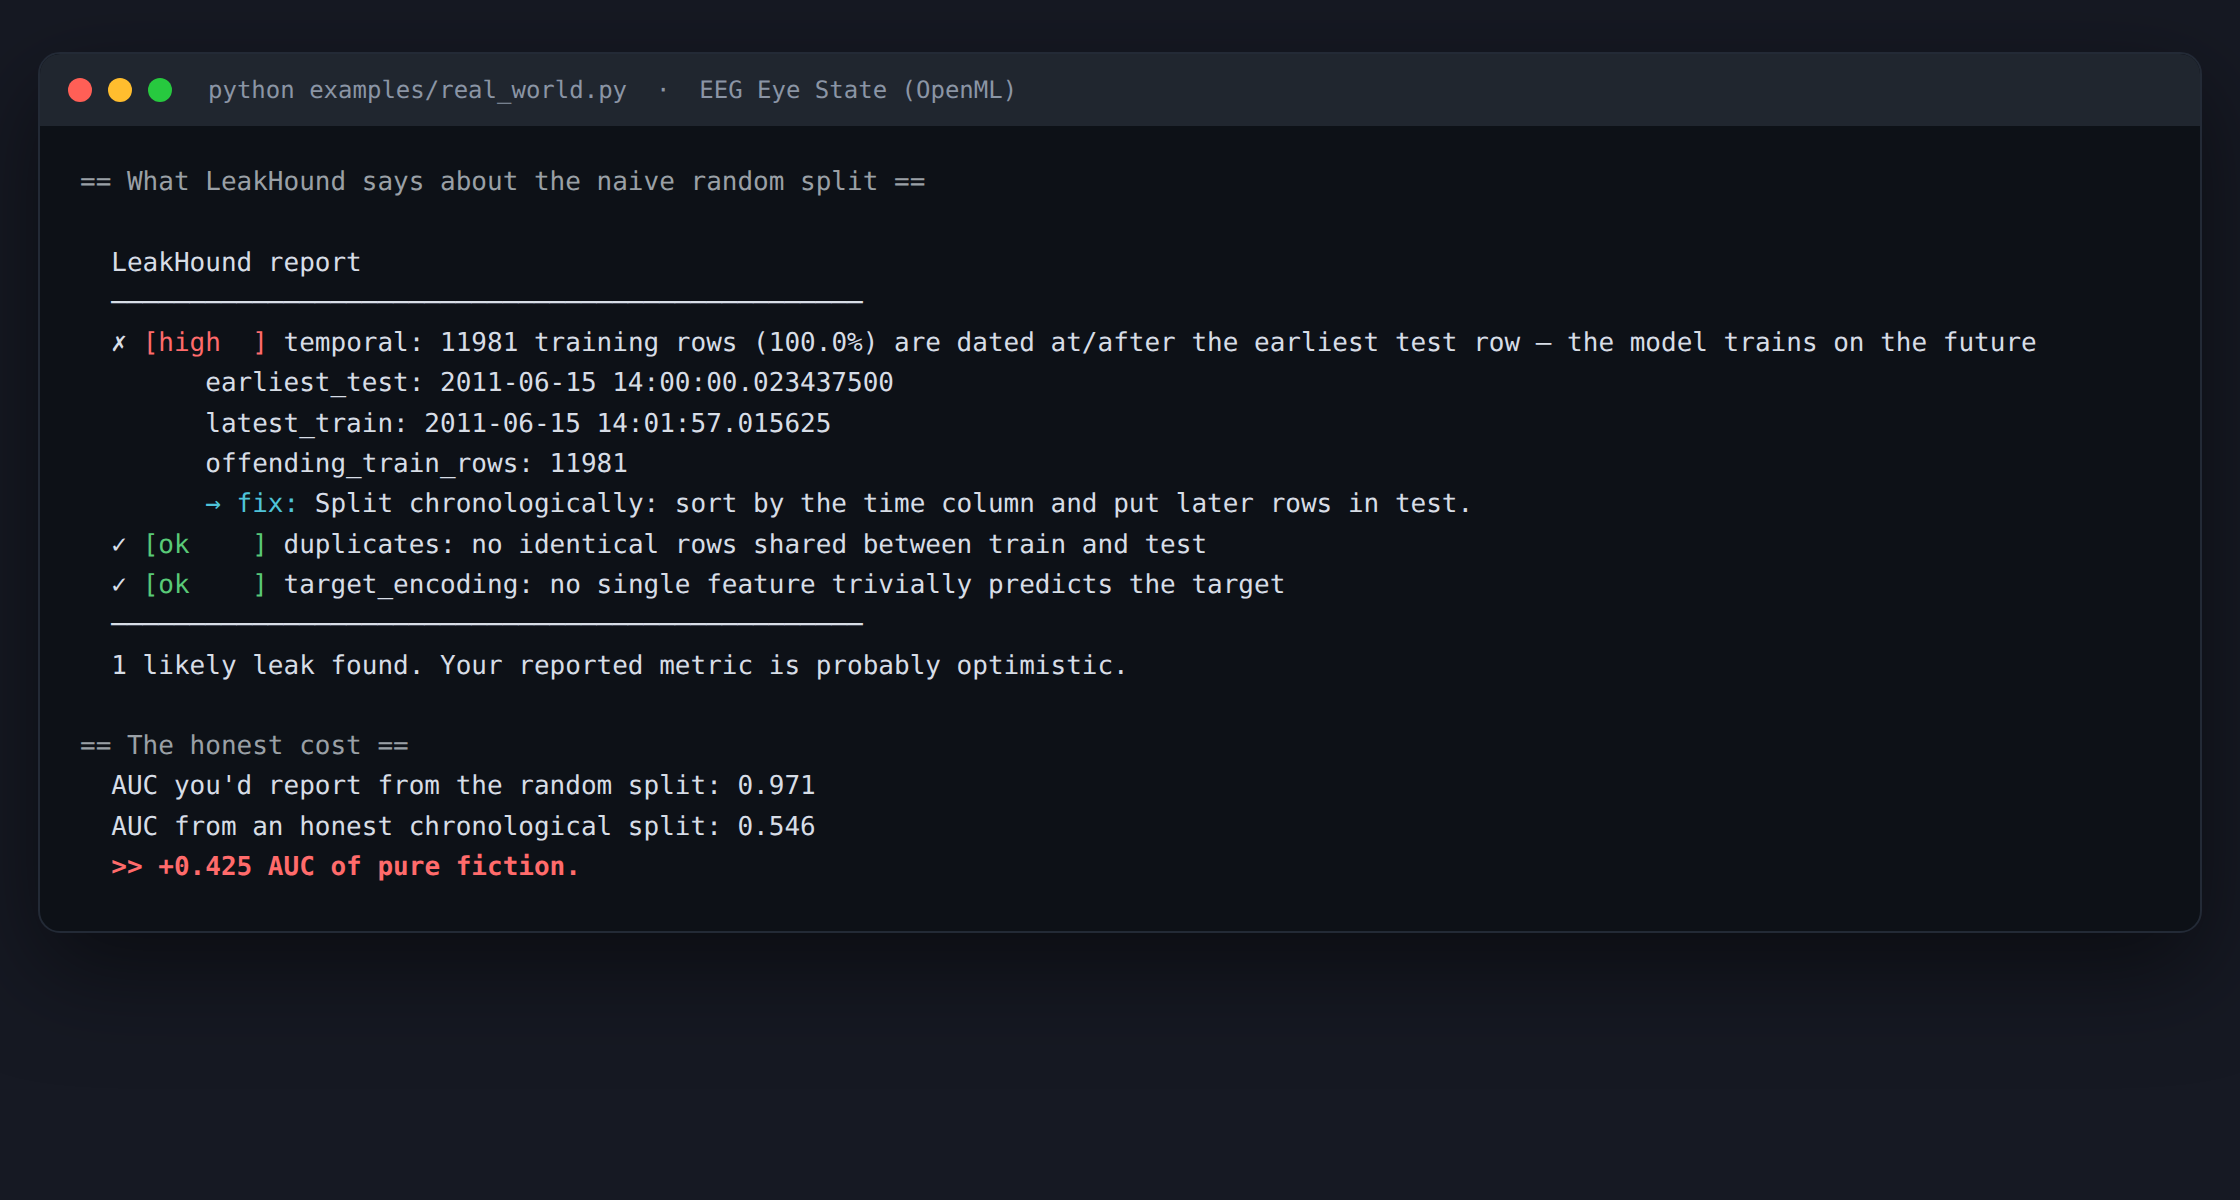
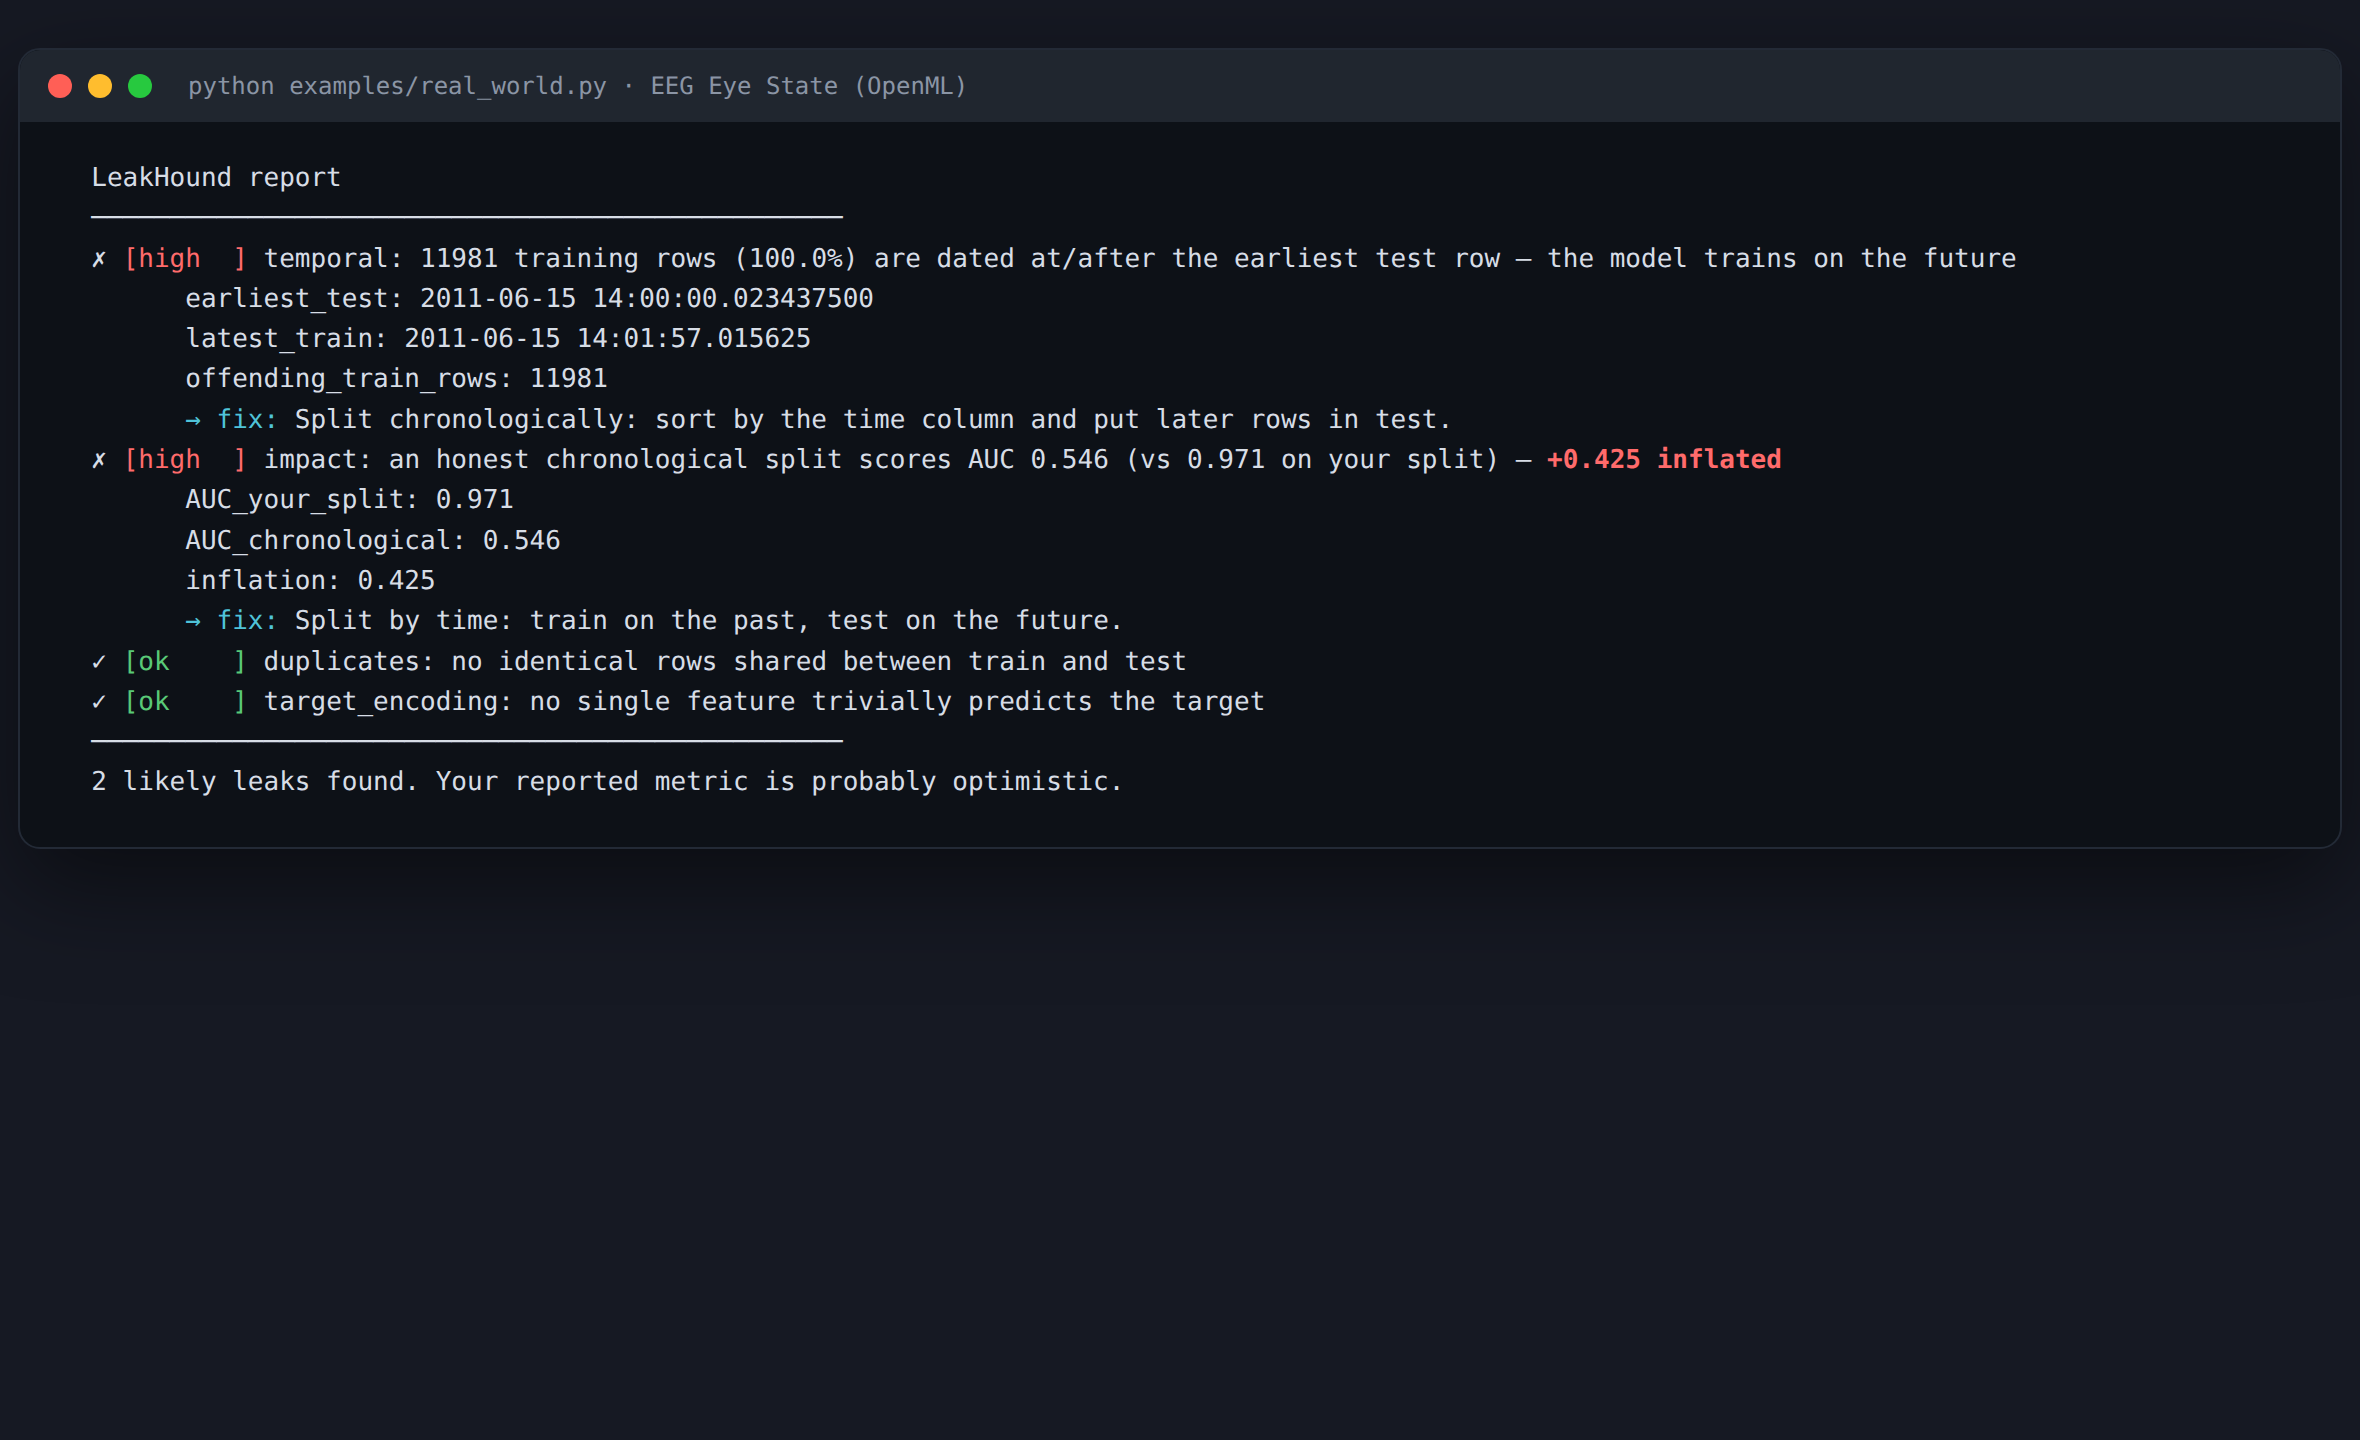
v0.3.0: measure temporal & group leak impact, GitHub Action, pre-commit hook

diff --git a/src/leakhound/impact.py b/src/leakhound/impact.py
@@ -3,17 +3,14 @@
 """Quantify the damage: fit a quick baseline and measure how much each leak inflates the score."""
 from __future__ import annotations
 
+import numpy as np
 import pandas as pd
 
 from .report import Finding
 
 _NEED_SKLEARN = ("install scikit-learn to measure leak impact: "
-                 "pip install 'leakhound[impact]'")
+                 "pip install 'leakhound-ml[impact]'")
 _EPS = 0.005  # ignore inflation smaller than this (noise)
-
-
-def _numeric_features(df: pd.DataFrame, target: str) -> list[str]:
-    return [c for c in df.select_dtypes(include="number").columns if c != target]
 
 
 def _severity(inflation: float) -> str:
@@ -21,7 +18,10 @@ def _severity(inflation: float) -> str:
 
 
 def measure_leak_impact(train: pd.DataFrame, test: pd.DataFrame, target: str,
-                        leaks: list[Finding], *, random_state: int = 0) -> list[Finding]:
+                        leaks: list[Finding], *,
+                        time_col: str | None = None,
+                        group_col: str | None = None,
+                        random_state: int = 0) -> list[Finding]:
     try:
         from sklearn.ensemble import (HistGradientBoostingClassifier,
                                       HistGradientBoostingRegressor)
@@ -29,14 +29,14 @@ def measure_leak_impact(train: pd.DataFrame, test: pd.DataFrame, target: str,
     except Exception:
         return [Finding("impact", "low", _NEED_SKLEARN)]
     try:
-        return _impact(train, test, target, leaks, random_state,
+        return _impact(train, test, target, leaks, time_col, group_col, random_state,
                        HistGradientBoostingClassifier, HistGradientBoostingRegressor,
                        roc_auc_score, r2_score)
     except Exception as e:  # never let impact crash the whole audit
         return [Finding("impact", "low", f"could not measure impact ({type(e).__name__}: {e})")]
 
 
-def _impact(train, test, target, leaks, rs, Clf, Reg, auc, r2) -> list[Finding]:
+def _impact(train, test, target, leaks, time_col, group_col, rs, Clf, Reg, auc, r2):
     if target not in train.columns or target not in test.columns:
         return [Finding("impact", "low", "target not in both sets; cannot measure impact")]
 
@@ -49,7 +49,9 @@ def _impact(train, test, target, leaks, rs, Clf, Reg, auc, r2) -> list[Finding]:
                         f"impact needs a binary (numeric 0/1) or continuous target; "
                         f"'{target}' has {nun} distinct values")]
 
-    feats = [c for c in _numeric_features(train, target) if c in test.columns]
+    exclude = {target, time_col, group_col}
+    feats = [c for c in train.select_dtypes(include="number").columns
+             if c not in exclude and c in test.columns]
     if not feats:
         return [Finding("impact", "low", "no numeric features available to fit a baseline")]
 
@@ -64,8 +66,15 @@ def _impact(train, test, target, leaks, rs, Clf, Reg, auc, r2) -> list[Finding]:
         return float(r2(te_df[target], m.predict(Xte)))
 
     findings: list[Finding] = []
-    base = score(feats, train, test)
+    base = score(feats, train, test)              # the score on the split as given
+    full = pd.concat([train, test], ignore_index=True)
+    n_test = len(test)
 
+    def add(inflation, msg, evidence, fix):
+        if inflation >= _EPS:
+            findings.append(Finding("impact", _severity(inflation), msg, evidence, fix=fix))
+
+    # 1) Target-encoding: drop the leaking feature(s) and re-score on the same split.
     leaky = [f.evidence.get("feature") for f in leaks
              if f.check == "target_encoding" and f.evidence.get("feature") in feats]
     leaky = [c for c in leaky if c]
@@ -73,38 +82,60 @@ def _impact(train, test, target, leaks, rs, Clf, Reg, auc, r2) -> list[Finding]:
         honest_feats = [c for c in feats if c not in leaky]
         if honest_feats:
             honest = score(honest_feats, train, test)
-            infl = base - honest
-            if infl >= _EPS:
-                findings.append(Finding(
-                    "impact", _severity(infl),
-                    f"removing leaking feature(s) {leaky} drops {metric} "
-                    f"from {base:.3f} to {honest:.3f} — {infl:+.3f} of fake performance",
-                    {f"{metric}_with_leak": round(base, 3),
-                     f"{metric}_without_leak": round(honest, 3),
-                     "inflation": round(infl, 3)},
-                    fix="Drop the leaking feature(s) and re-evaluate honestly.",
-                ))
+            add(base - honest,
+                f"removing leaking feature(s) {leaky} drops {metric} "
+                f"from {base:.3f} to {honest:.3f} — {base - honest:+.3f} of fake performance",
+                {f"{metric}_with_leak": round(base, 3), f"{metric}_without_leak": round(honest, 3),
+                 "inflation": round(base - honest, 3)},
+                "Drop the leaking feature(s) and re-evaluate honestly.")
 
+    # 2) Duplicates: evaluate only on test rows the model has never seen.
     if any(f.check in ("duplicates", "near_duplicates") for f in leaks):
         shared = [c for c in train.columns if c in test.columns]
         tr_keys = set(train[shared].astype(str).agg("|".join, axis=1))
         te_keys = test[shared].astype(str).agg("|".join, axis=1)
         unseen = ~te_keys.isin(tr_keys)
-        n_unseen = int(unseen.sum())
-        if 0 < n_unseen < len(test):
-            full = score(feats, train, test)
+        if 0 < int(unseen.sum()) < len(test):
             honest = score(feats, train, test[unseen])
-            infl = full - honest
-            if infl >= _EPS:
-                findings.append(Finding(
-                    "impact", _severity(infl),
-                    f"on the {n_unseen} test rows the model has NOT seen, {metric} is "
-                    f"{honest:.3f} (vs {full:.3f} on the full test) — {infl:+.3f} inflated",
-                    {f"{metric}_full_test": round(full, 3),
-                     f"{metric}_unseen_only": round(honest, 3),
-                     "inflation": round(infl, 3)},
-                    fix="Evaluate only on rows the model never saw during training.",
-                ))
+            add(base - honest,
+                f"on the {int(unseen.sum())} test rows the model has NOT seen, {metric} is "
+                f"{honest:.3f} (vs {base:.3f} on the full test) — {base - honest:+.3f} inflated",
+                {f"{metric}_full_test": round(base, 3), f"{metric}_unseen_only": round(honest, 3),
+                 "inflation": round(base - honest, 3)},
+                "Evaluate only on rows the model never saw during training.")
+
+    # 3) Temporal: re-split the combined data chronologically and re-score.
+    if time_col and any(f.check == "temporal" for f in leaks) and time_col in full.columns:
+        order = pd.to_datetime(full[time_col], errors="coerce").argsort(kind="stable")
+        ordered = full.iloc[order].reset_index(drop=True)
+        honest = score(feats, ordered.iloc[:len(full) - n_test], ordered.iloc[len(full) - n_test:])
+        add(base - honest,
+            f"an honest chronological split scores {metric} {honest:.3f} "
+            f"(vs {base:.3f} on your split) — {base - honest:+.3f} inflated",
+            {f"{metric}_your_split": round(base, 3), f"{metric}_chronological": round(honest, 3),
+             "inflation": round(base - honest, 3)},
+            "Split by time: train on the past, test on the future.")
+
+    # 4) Group: re-split the combined data so no group spans the split, and re-score.
+    if group_col and any(f.check == "group_split" for f in leaks) and group_col in full.columns:
+        rng = np.random.default_rng(rs)
+        groups = full[group_col]
+        sizes = groups.value_counts()
+        test_groups, count = set(), 0
+        for g in rng.permutation(groups.dropna().unique()):
+            if count >= n_test:
+                break
+            test_groups.add(g)
+            count += int(sizes[g])
+        mask = groups.isin(test_groups).to_numpy()
+        if 0 < int(mask.sum()) < len(full):
+            honest = score(feats, full[~mask], full[mask])
+            add(base - honest,
+                f"a group-aware split scores {metric} {honest:.3f} "
+                f"(vs {base:.3f} on your split) — {base - honest:+.3f} inflated",
+                {f"{metric}_your_split": round(base, 3), f"{metric}_group_aware": round(honest, 3),
+                 "inflation": round(base - honest, 3)},
+                "Keep each group on one side (GroupShuffleSplit / GroupKFold).")
 
     if not findings:
         findings.append(Finding("impact", "ok",

diff --git a/examples/real_world.py b/examples/real_world.py
@@ -2,18 +2,15 @@
 # Copyright (C) 2026 Joel Gomes
 """Real-world case study: a random split of a continuous EEG recording lies to you.
 
-EEG Eye State (OpenML, ~15,000 rows) is ONE continuous recording sampled at 128 Hz
-— each row is a moment in time. Split it randomly (the default everyone reaches
-for) and your model looks brilliant. Split it honestly (past -> future) and it
-collapses, because neighbouring samples are almost identical.
+EEG Eye State (OpenML, ~15,000 rows) is ONE continuous recording sampled at 128 Hz.
+Split it randomly (the default everyone reaches for) and your model looks brilliant.
+LeakHound flags the leak AND measures exactly how much it inflated your score.
 
 Requires:  pip install 'leakhound-ml[impact]'  and an internet connection.
 """
 import numpy as np
 import pandas as pd
 from sklearn.datasets import fetch_openml
-from sklearn.ensemble import HistGradientBoostingClassifier
-from sklearn.metrics import roc_auc_score
 
 from leakhound import audit
 
@@ -23,7 +20,6 @@ df = d.frame.copy()
 tgt = df.columns[-1]
 df["label"] = df[tgt].astype("category").cat.codes.astype(int)
 df = df.drop(columns=[tgt])
-# real recording cadence: 128 Hz. The row order is genuine time.
 df["time"] = pd.Timestamp("2011-06-15 14:00:00") + pd.to_timedelta(np.arange(len(df)) / 128.0, unit="s")
 
 rng = np.random.default_rng(0)
@@ -32,19 +28,5 @@ cut = int(0.8 * len(df))
 train = df.iloc[idx[:cut]].reset_index(drop=True)
 test = df.iloc[idx[cut:]].reset_index(drop=True)
 
-print("\n== What LeakHound says about the naive random split ==")
-print(audit(train, test, target="label", time_col="time").render())
-
-# The honest cost — using only the real EEG features (NOT the time column).
-X = df.drop(columns=["label", "time"])
-y = df["label"]
-def auc(tr, te):
-    m = HistGradientBoostingClassifier(random_state=0).fit(X.iloc[tr], y.iloc[tr])
-    return roc_auc_score(y.iloc[te], m.predict_proba(X.iloc[te])[:, 1])
-
-r = auc(idx[:cut], idx[cut:])
-c = auc(np.arange(cut), np.arange(cut, len(df)))
-print("== The honest cost ==")
-print(f"  AUC you'd report from the random split: {r:.3f}")
-print(f"  AUC from an honest chronological split: {c:.3f}")
-print(f"  >> {r - c:+.3f} AUC of pure fiction.\n")
+# LeakHound both DETECTS the leak and MEASURES what it costs.
+print(audit(train, test, target="label", time_col="time", measure_impact=True).render())

diff --git a/tests/test_features.py b/tests/test_features.py
@@ -60,3 +60,20 @@ def test_impact_quantifies_inflation():
     report = audit(train, test, target="label", measure_impact=True)
     impacts = [f for f in report.findings if f.check == "impact"]
     assert any(f.evidence.get("inflation", 0) > 0.05 for f in impacts)
+
+
+def test_temporal_impact_is_measured():
+    pytest.importorskip("sklearn")
+    rng = np.random.default_rng(3)
+    n = 1500
+    # a drifting time series: the honest (chronological) score is much worse
+    t = pd.date_range("2024-01-01", periods=n, freq="h")
+    trend = np.linspace(-3, 3, n)
+    x = trend + rng.normal(0, 0.5, n)
+    label = (rng.normal(0, 1, n) + trend > 0).astype(int)
+    df = pd.DataFrame({"time": t, "x": x, "label": label})
+    ridx = rng.permutation(n); c = int(0.8 * n)
+    train = df.iloc[ridx[:c]].reset_index(drop=True)
+    test = df.iloc[ridx[c:]].reset_index(drop=True)
+    report = audit(train, test, target="label", time_col="time", measure_impact=True)
+    assert any(f.check == "impact" and "chronological" in f.message for f in report.findings)

diff --git a/src/leakhound/__init__.py b/src/leakhound/__init__.py
@@ -14,7 +14,7 @@ from .checks import (
 )
 from .autodetect import infer_roles, build_advisories
 
-__version__ = "0.2.0"
+__version__ = "0.3.0"
 __all__ = ["audit", "Report", "Finding", "infer_roles", "build_advisories", "__version__"]
 
 
@@ -47,7 +47,8 @@ def audit(train: pd.DataFrame,
 
     if measure_impact and test is not None and target is not None:
         from .impact import measure_leak_impact
-        for f in measure_leak_impact(train, test, target, report.leaks):
+        for f in measure_leak_impact(train, test, target, report.leaks,
+                                     time_col=time_col, group_col=group_col):
             report.add(f)
 
     if not report.findings:
